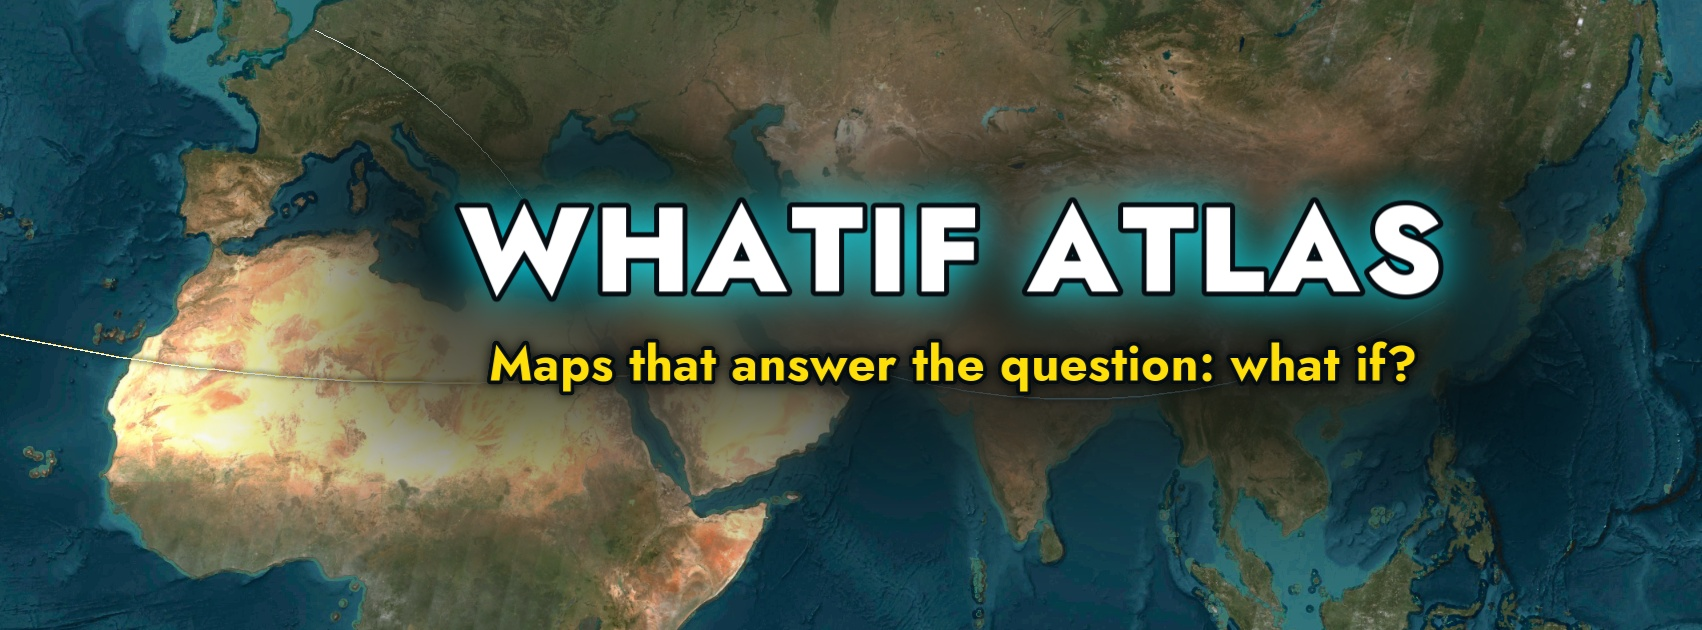
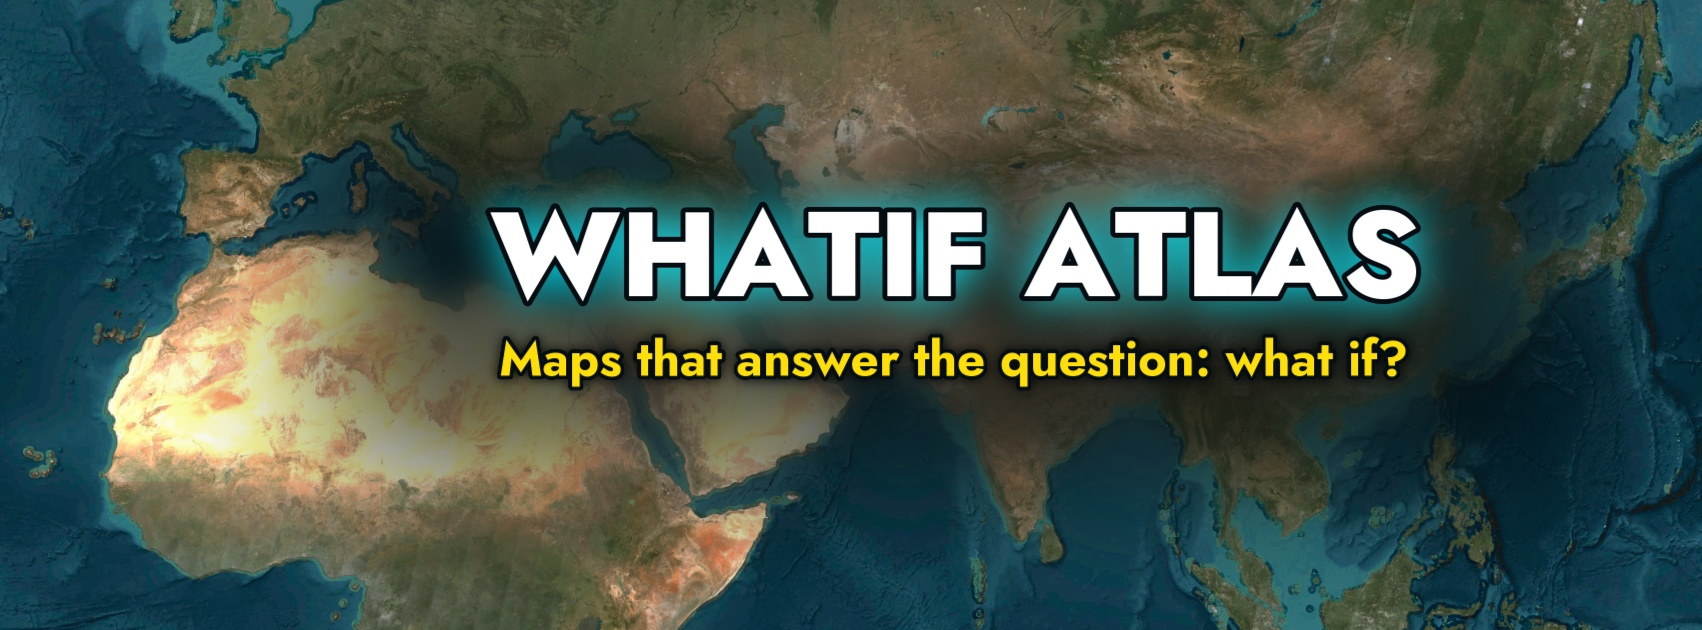
Channel art: exact ink-bbox centering, remove arcs behind title
Claude-Session: https://claude.ai/code/session_0138F5K3cFyqxK7uQUdCPQ6Y

diff --git a/whatif_engine/tools/brand_assets.py b/whatif_engine/tools/brand_assets.py
@@ -83,9 +83,7 @@ def map_backdrop(W, H, lon_c=55, lat_c=28, width_km=19000):
     img = mr.base(M, s)
     pil = Image.fromarray((img * 255).astype(np.uint8)).convert("RGBA")
     P = lambda lo, la: tuple(float(v[0]) for v in cam.geo_to_screen(0, lo, la))
-    fx = [J.NeonArc((56.4, 26.5), (121.5, 31.2), 0, dur=0.01, bulge=0.22, w=7),
-          J.NeonArc((56.4, 26.5), (-74, 40.7), 0, dur=0.01, bulge=-0.15, w=7, col="#ffd84a"),
-          J.NeonArc((32.5, 30.0), (4.5, 51.9), 0, dur=0.01, bulge=0.2, w=6, col="#9eeb25")]
+    fx = []                                   # clean backdrop: nothing crosses the title band
     pil = J.draw_all(pil, fx, 5.0, P)
     return np.asarray(pil.convert("RGB")).astype(np.float32) / 255
 
@@ -126,18 +124,32 @@ def scrim(img, cx, cy, w, h, strength=0.72, blur=18):
     return img * (1 - m) + bl * (1 - strength) * m
 
 
-def title_block(img, cx, cy, scale):
-    t1 = outlined_text(NAME.upper(), int(150 * scale), "#FFFFFF", max(4, int(7 * scale)), glow_hex="#06EBFF")
-    blit_sub(img, t1, cx, cy - 42 * scale)
-    t2 = outlined_text(TAG, int(62 * scale), "#FFDF0A", max(3, int(5 * scale)), family="jost", weight=700, tracking=0.01)
-    blit_sub(img, t2, cx, cy + 100 * scale)
+def _ink(spr):
+    """tight bbox of the visible glyphs (fill+outline, not the soft glow) -> (x0,y0,x1,y1)"""
+    ys, xs = np.nonzero(spr[..., 3] > 0.6)
+    return xs.min(), ys.min(), xs.max() + 1, ys.max() + 1
+
+
+def title_block(img, cx, cy, scale, gap=34):
+    """title + tagline as ONE block, centred exactly on (cx, cy) by their real ink bounds."""
+    t1 = outlined_text(NAME.upper(), int(150 * scale), "#FFFFFF", max(4, int(7 * scale)), glow_hex="#06EBFF", tracking=0.0)
+    t2 = outlined_text(TAG, int(62 * scale), "#FFDF0A", max(3, int(5 * scale)), family="jost", weight=700, tracking=0.0)
+    b1, b2 = _ink(t1), _ink(t2)
+    h1, h2 = b1[3] - b1[1], b2[3] - b2[1]
+    top = cy - (h1 + gap * scale + h2) / 2
+    # place so that each sprite's ink centre lands on the target point
+    for spr, b, y_ink_top in ((t1, b1, top), (t2, b2, top + h1 + gap * scale)):
+        ink_cx = (b[0] + b[2]) / 2; ink_cy = (b[1] + b[3]) / 2
+        dx = spr.shape[1] / 2 - ink_cx; dy = spr.shape[0] / 2 - ink_cy
+        blit_sub(img, spr, cx + dx, y_ink_top + (b[3] - b[1]) / 2 + dy)
+    return top, top + h1 + gap * scale + h2
 
 
 # YouTube banner 2560x1440, everything important inside central 1235x338 (strictest safe area)
 W, H = 2560, 1440
 yb = map_backdrop(W, H)
 yy, xx = np.mgrid[0:H, 0:W].astype(np.float32)
-yb = scrim(yb, W / 2, H / 2 + 10, 1500, 430)
+yb = scrim(yb, W / 2, H / 2, 1500, 430)
 title_block(yb, W / 2, H / 2, 0.86)
 save(yb, "youtube_banner_2560x1440.jpg")
 guide = (np.clip(yb, 0, 1) * 255).astype(np.uint8).copy()
@@ -149,6 +161,6 @@ Image.fromarray(guide).resize((1280, 720)).save(os.path.join(OUT, "cek_zona_aman
 W, H = 1702, 630
 fb = map_backdrop(W, H, lon_c=60, lat_c=30, width_km=17000)
 yy, xx = np.mgrid[0:H, 0:W].astype(np.float32)
-fb = scrim(fb, W * 0.56, H * 0.46, 1250, 360)
-title_block(fb, W * 0.56, H * 0.45, 0.8)
+fb = scrim(fb, W * 0.56, H * 0.47, 1250, 360)
+title_block(fb, W * 0.56, H * 0.47, 0.8)
 save(fb, "facebook_cover_1702x630.jpg")
